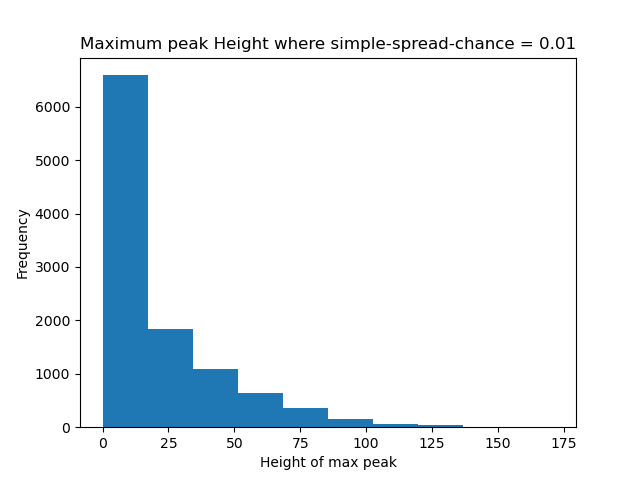
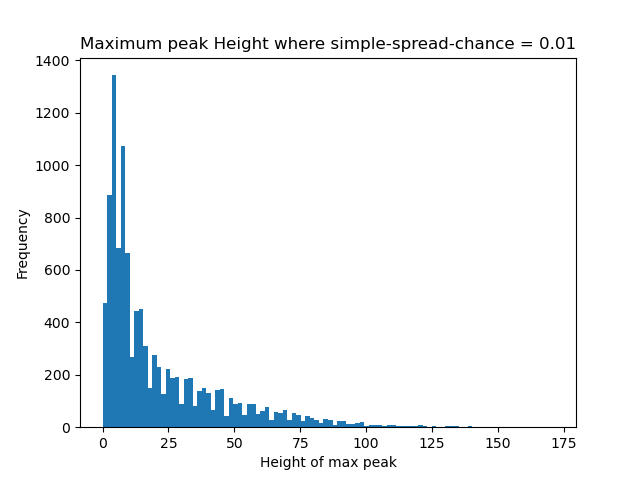
fix figs

diff --git a/data/try2/initial_hist.py b/data/try2/initial_hist.py
@@ -315,13 +315,13 @@ def make_histograms(dataset):
     #histogram 1: p = 0.01
     df_adj = createdataframe(dataset)
     df_with_class=loop_per_row(df_adj)
-    df_set_p = df_with_class.loc[df_with_class['simple-spread-chance'] == 0.75]
+    df_set_p = df_with_class.loc[df_with_class['simple-spread-chance'] == 0.01]
     print('edit p', df_set_p)
     class_var=df_with_class['class']
-    plt.hist(class_var, bins= 10)
+    plt.hist(class_var, bins= 100)
     plt.xlabel('Height of max peak')
     plt.ylabel('Frequency')
-    plt.title('Maximum peak Height where simple-spread-chance = 0.75')
+    plt.title('Maximum peak Height where simple-spread-chance = 0.01')
     plt.show()
         #plot based on height of peak
         #plot based on time of peak
